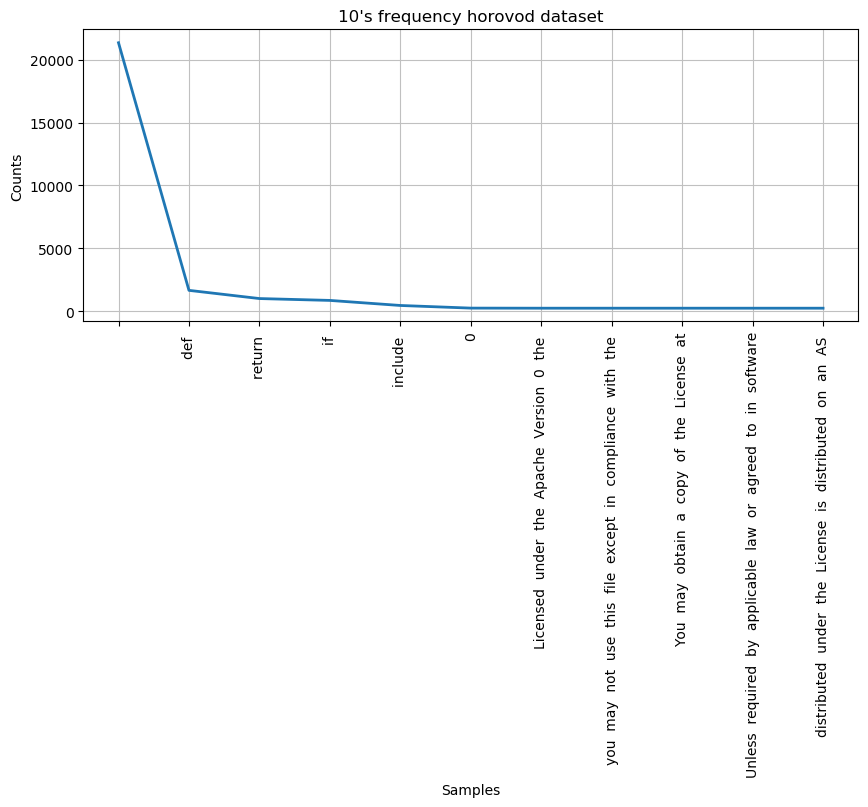
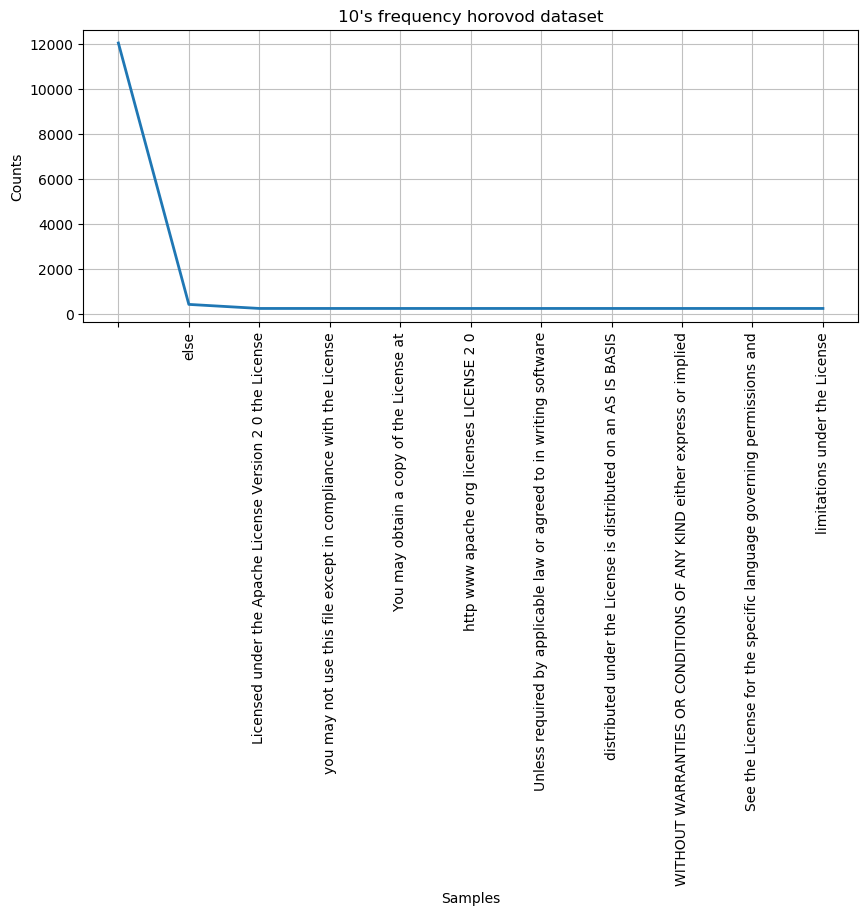
Add files via upload
frequencies corrected (most common now 'else')

diff --git a/data summary/preproccessing.py b/data summary/preproccessing.py
@@ -8,15 +8,27 @@ from matplotlib import pyplot as plt
 
 def clean_sentence(string):
     """
-    clean snetence from panctuations
+    clean sentence from panctuations
     :param string:  sentence
     :return: cleaned sentence
     """
-    tokenizer = nltk.RegexpTokenizer(r"\w+\s+")
+    tokenizer = nltk.RegexpTokenizer(r"\w+")
     return " ".join(tokenizer.tokenize(string)).replace('\n', '')
 
 
-def data_summary(name):
+def clean_sentence_most_common(string):
+    """
+    clean sentence from panctuations and most common word
+    :param string:  sentence
+    :return: cleaned sentence
+    """
+    tokenizer = nltk.RegexpTokenizer(r"\w+")
+    string = " ".join(tokenizer.tokenize(string)).replace('\n', '')
+    string = string.replace('else', '')
+    return string
+
+
+def data_summary(name, clean_most_common=False):
     """
     plot word frequency plot and return dataframe of 30's most common words
     :param name: name of repository
@@ -25,8 +37,13 @@ def data_summary(name):
     path = "data/%s_all_data.txt" % name
     with open(path, 'r', encoding='utf-8') as myfile:
         data = myfile.readlines()
-        clean_data = list(map(clean_sentence, data))
-        fdist = plot_freq(clean_data, name)
+        line = data[219]
+        line = clean_sentence_most_common(line)
+        if clean_most_common==True:
+            clean_data = list(map(clean_sentence_most_common, data))
+        else:
+            clean_data =list(map(clean_sentence, data))
+        fdist = plot_freq(clean_data, name, clean_most_common)
         common = fdist.most_common(30)
         words = [word[0].split('\n')[0] for word in common]
         freq = [word[1] for word in common]
@@ -35,19 +52,21 @@ def data_summary(name):
         return df
 
 
-def plot_freq(clean_data, name):
+def plot_freq(clean_data, name, clean_most_common=False):
     """
     plot 10's most common words
     :param clean_data: data of words
     :param name: name of repository
     :return: freqDist object
     """
+    if(clean_most_common):
+        name += "_no_common"
     fig = plt.figure(figsize=(10, 4))
     plt.gcf().subplots_adjust(bottom=0.15)  # to avoid x-ticks cut-off
     fdist = nltk.FreqDist(clean_data)
-    fdist.plot(11, cumulative=False, title="10's frequency %s dataset" % name)
+    fdist.plot(21, cumulative=False, title="10's frequency %s dataset" % name)
     plt.show()
-    fig.savefig("words_frequency_10_%s" %name, bbox_inches="tight")
+    fig.savefig("words_frequency_20_%s" %name, bbox_inches="tight")
     return fdist
 
 
@@ -56,10 +75,10 @@ names = ["building_tool", "espnet","horovod","jina","PaddleHub", "PySolFC",
          "pytorch_geometric"]
 dfs = []
 for name in names:
-    dfs.append(data_summary(name))
+    dfs.append(data_summary(name, clean_most_common=False))
 df = pd.concat(dfs)
-df = data_summary("data/PaddleHub_all_data.txt")
 p = ggplot(df) + geom_line(aes(x='x', y='frequency', color='name')) + \
-    ggtitle("30 most common words frequency")
-ggsave(p, "common_words_distribution")
+    ggtitle("30 most common words frequency") + labs(x="n'th most common "
+                                                         "word", y='counts')
+ggsave(p, "30_common_words_distribution")
 print(p)
